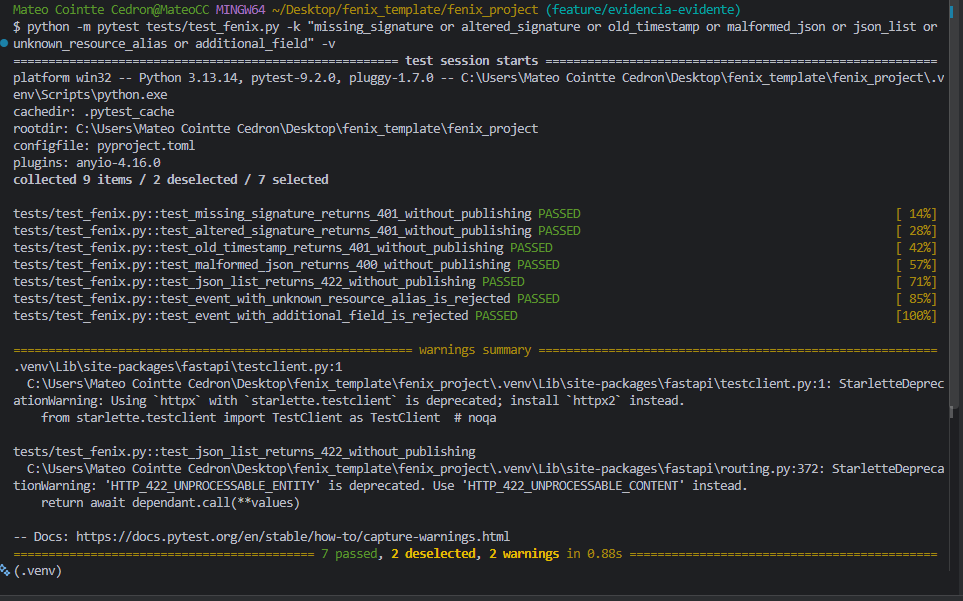
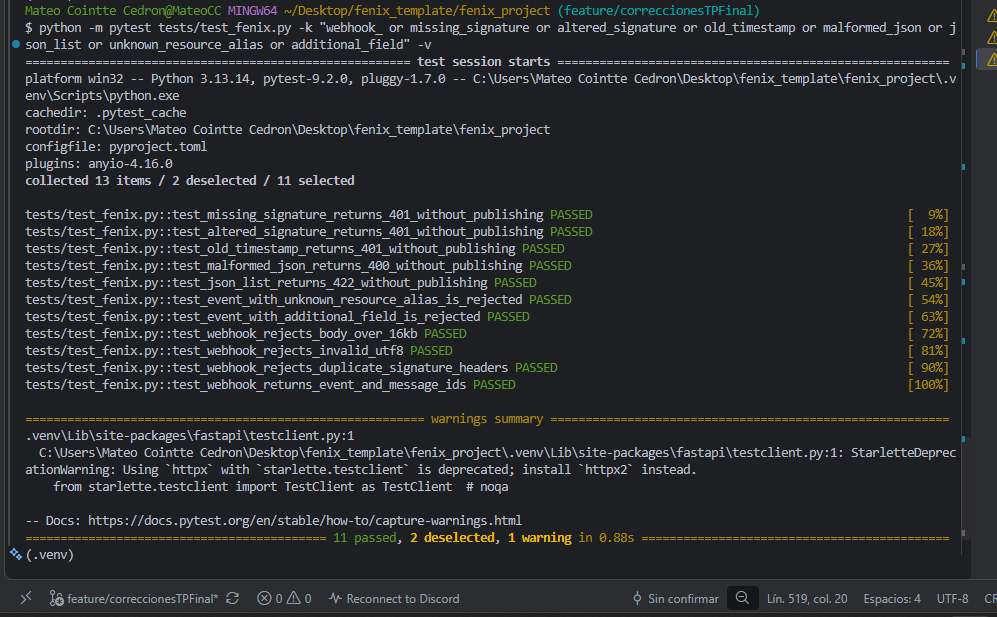
fix: complete I3 security and remediation corrections

Changed region(s): [[0.0, 0.0, 1.0, 0.9884], [0.6231, 0.9584, 1.0, 0.9884]]

diff --git a/src/fenix/services/receiver.py b/src/fenix/services/receiver.py
@@ -1,17 +1,19 @@
+
 import json
 import logging
 import os
+
+from typing import Dict
 from dotenv import load_dotenv
+from fastapi import FastAPI, HTTPException, Request, status
+from starlette.concurrency import run_in_threadpool
 
-from typing import Any, Dict
-from fastapi import FastAPI, Header, HTTPException, Request, status  # type: ignore[import-not-found]
 from fenix.utils.crypto import verify
-from fenix.services.sqs import publish
-from fenix.services.sqs import queue_url
+from fenix.services.sqs import publish, queue_url
+from fenix.services.events import validate
+from fenix.utils.errors import ValidationError
+from fenix.utils.state import load
 
-
-# Intentar importar el servicio de SQS (desarrollado por I2).
-# Si aún no está disponible, se define un stub para evitar fallos de ejecución.
 
 load_dotenv()
 
@@ -23,73 +25,67 @@ app = FastAPI(
     version="1.0.0",
 )
 
-# Carga de la clave secreta desde las variables de entorno del sistema
+# Cargar la clave secreta desde las variables de entorno.
 WEBHOOK_SECRET = os.getenv("WEBHOOK_SECRET", "")
 PREFIX = os.getenv("QUEUE_PREFIX", "")
 
+
 @app.post("/webhook", status_code=status.HTTP_202_ACCEPTED)
-
-
-async def receive_webhook(
-    request: Request,
-    # Se permite que la solicitud llegue al receptor sin esta cabecera
-    # para gestionar la ausencia de firma y responder con HTTP 401.
-    x_webhook_signature: str | None = Header(None, alias="X-Webhook-Signature"),
-) -> Dict[str, str]:
+async def receive_webhook(request: Request) -> Dict[str, str]:
     """
-    Recibe, autentica y procesa webhooks de alertas de infraestructura.
+    Recibe un webhook, verifica su firma HMAC y valida el evento
+    contra el inventario antes de publicarlo en SQS.
 
-    Flujo de ejecución:
-        1. Verifica que WEBHOOK_SECRET esté configurada.
-        2. Comprueba la cabecera X-Webhook-Signature.
-        3. Extrae el timestamp y la firma HMAC-SHA256.
-        4. Obtiene el cuerpo original en bytes y verifica la firma.
-        5. Decodifica el cuerpo y valida que sea un objeto JSON.
-        6. Publica el evento autenticado en Amazon SQS.
+    El proceso comprueba que la cabecera de firma sea única y válida,
+    que el cuerpo no supere los 16 KiB y que contenga JSON codificado
+    en UTF-8. La firma se verifica considerando la ventana temporal
+    de validez definida en crypto.verify().
 
-    Args:
-        request: Solicitud HTTP de FastAPI.
-        x_webhook_signature: Cabecera opcional con el formato
-            "t={timestamp},v1={digest}".
+    La validación del evento comprueba su estructura y que el recurso
+    esté autorizado en el inventario. Las operaciones de SQS se ejecutan
+    en un threadpool para no bloquear el endpoint asíncrono.
 
-    Returns:
-        Dict[str, str]: Confirmación de que el evento fue encolado.
+    Respuestas:
+        202: Evento autenticado, validado y publicado.
+        400: JSON inválido, UTF-8 incorrecto o Content-Length inválido.
+        401: Firma ausente, duplicada, inválida o vencida.
+        413: Cuerpo superior a 16 KiB.
+        422: Evento inválido o recurso no autorizado.
+        503: Clave secreta, inventario o servicio SQS no disponible.
 
-    Raises:
-        HTTPException:
-            400: El cuerpo no contiene JSON válido.
-            401: Falta la firma o no es válida.
-            422: El JSON recibido no es un objeto.
-            500: Error de configuración o procesamiento interno.
+    Retorna:
+        Identificadores del evento y del mensaje publicado en SQS.
     """
     if not WEBHOOK_SECRET:
-        logger.error("La variable de entorno WEBHOOK_SECRET no está configurada.")
+        logger.error("WEBHOOK_SECRET no está configurada.")
         raise HTTPException(
-            status_code=status.HTTP_500_INTERNAL_SERVER_ERROR,
-            detail="Error de configuración interna del servidor.",
+            status_code=status.HTTP_503_SERVICE_UNAVAILABLE,
+            detail="Servicio de autenticación no disponible.",
         )
 
-    # 1. Parsear la cabecera unificada X-Webhook-Signature (Formato: "t=1700000000,v1=abcdef...")
-    if not x_webhook_signature:
+    # Comprobar que exista una sola cabecera de firma.
+    headers = request.headers.getlist("x-webhook-signature")
+
+    if len(headers) != 1 or not headers[0].strip():
         raise HTTPException(
             status_code=status.HTTP_401_UNAUTHORIZED,
-            detail="Falta la firma de seguridad.",
+            detail="Firma ausente o duplicada.",
         )
+
+    # Parsear la cabecera y rechazar campos desconocidos o duplicados.
     try:
         header_parts = {}
 
-        for item in x_webhook_signature.split(","):
-            item = item.strip()
-
-            if not item or "=" not in item:
-                raise ValueError("Componente de cabecera inválido.")
+        for item in headers[0].split(","):
+            if "=" not in item:
+                raise ValueError("Cabecera inválida.")
 
             key, value = item.split("=", 1)
             key = key.strip()
             value = value.strip()
 
             if key not in ("t", "v1") or not value:
-                raise ValueError("Campo desconocido o vacío.")
+                raise ValueError("Campo inválido.")
 
             if key in header_parts:
                 raise ValueError("Campo duplicado.")
@@ -97,67 +93,99 @@ async def receive_webhook(
             header_parts[key] = value
 
         if set(header_parts) != {"t", "v1"}:
-            raise ValueError("Faltan campos obligatorios.")
-
-        x_timestamp = header_parts["t"]
-        x_signature = header_parts["v1"]
+            raise ValueError("Faltan campos.")
 
     except ValueError:
-        x_timestamp, x_signature = None, None
-
-    try:
-        # 2. Obtener el cuerpo de la petición en formato de bytes crudos
-        body_bytes = await request.body()
-
-        # 3. Validar la firma HMAC usando crypto.py
-        is_valid = verify(
-            secret=WEBHOOK_SECRET,
-            timestamp=x_timestamp,
-            body=body_bytes,
-            received_signature=x_signature,
+        raise HTTPException(
+            status_code=status.HTTP_401_UNAUTHORIZED,
+            detail="Cabecera de firma inválida.",
         )
 
-        if not is_valid:
-            logger.warning("Intento de webhook rechazado: Firma HMAC inválida o alterada.")
-            raise HTTPException(
-                status_code=status.HTTP_401_UNAUTHORIZED,
-                detail="Firma de seguridad inválida.",
-            )
+    # Comprobar el tamaño informado antes de leer el cuerpo.
+    content_length = request.headers.get("content-length")
 
-        # 4. Decodificar y validar que el cuerpo sea un JSON estructurado
+    if content_length is not None:
         try:
-            payload_data = json.loads(body_bytes.decode("utf-8"))
-
-            if not isinstance(payload_data, dict):
-                logger.warning("El payload JSON debe ser un objeto.")
+            if int(content_length) > 16 * 1024:
                 raise HTTPException(
-                    status_code=status.HTTP_422_UNPROCESSABLE_ENTITY,
-                    detail="El payload debe ser un objeto JSON.",
+                    status_code=status.HTTP_413_CONTENT_TOO_LARGE,
+                    detail="El cuerpo supera el límite de 16 KiB.",
                 )
-
-        except json.JSONDecodeError:
-            logger.error("El payload recibido no posee un formato JSON válido.")
+        except ValueError:
             raise HTTPException(
                 status_code=status.HTTP_400_BAD_REQUEST,
-                detail="El payload debe ser un objeto JSON válido.",
+                detail="Content-Length inválido.",
             )
 
-        logger.info(f"Webhook autenticado correctamente. Evento: {payload_data.get('event_type', 'desconocido')}")
+    # Obtener el cuerpo y comprobar su tamaño real.
+    body_bytes = await request.body()
 
-        # 5. Encolar el mensaje en SQS para su procesamiento asíncrono
-        publish(queue_url(PREFIX), payload_data)
-
-        return {
-            "status": "success",
-            "message": "Alerta autenticada y encolada exitosamente en SQS.",
-        }
-
-    except HTTPException:
-        # Re-lanzar excepciones HTTP previamente controladas
-        raise
-    except Exception as e:
-        logger.exception(f"Error inesperado al procesar el webhook: {e}")
+    if len(body_bytes) > 16 * 1024:
         raise HTTPException(
-            status_code=status.HTTP_500_INTERNAL_SERVER_ERROR,
-            detail="Error interno procesando la alerta.",
+            status_code=status.HTTP_413_CONTENT_TOO_LARGE,
+            detail="El cuerpo supera el límite de 16 KiB.",
         )
+
+    # Verificar la firma HMAC y su vigencia temporal.
+    if not verify(
+        secret=WEBHOOK_SECRET,
+        timestamp=header_parts["t"],
+        body=body_bytes,
+        received_signature=header_parts["v1"],
+    ):
+        logger.warning("Firma HMAC inválida o vencida.")
+        raise HTTPException(
+            status_code=status.HTTP_401_UNAUTHORIZED,
+            detail="Firma de seguridad inválida.",
+        )
+
+    # Decodificar el cuerpo y comprobar que contiene JSON válido.
+    try:
+        payload_data = json.loads(body_bytes.decode("utf-8"))
+    except (UnicodeDecodeError, json.JSONDecodeError):
+        raise HTTPException(
+            status_code=status.HTTP_400_BAD_REQUEST,
+            detail="El cuerpo debe contener JSON válido en UTF-8.",
+        )
+
+    if not isinstance(payload_data, dict):
+        raise HTTPException(
+            status_code=status.HTTP_422_UNPROCESSABLE_CONTENT,
+            detail="El payload debe ser un objeto JSON.",
+        )
+
+    # Validar la estructura del evento y la autorización del recurso.
+    try:
+        inventory = load("data/inventory.json")
+        payload_data = validate(payload_data, inventory)
+    except ValidationError:
+        raise HTTPException(
+            status_code=status.HTTP_422_UNPROCESSABLE_CONTENT,
+            detail="Evento o recurso inválido.",
+        )
+    except Exception:
+        logger.exception("No se pudo cargar el inventario.")
+        raise HTTPException(
+            status_code=status.HTTP_503_SERVICE_UNAVAILABLE,
+            detail="Inventario no disponible.",
+        )
+
+    # Publicar en SQS sin bloquear el endpoint asíncrono.
+    try:
+        url = await run_in_threadpool(queue_url, PREFIX)
+        message_id = await run_in_threadpool(publish, url, payload_data)
+    except Exception:
+        logger.exception("No se pudo publicar el evento en SQS.")
+        raise HTTPException(
+            status_code=status.HTTP_503_SERVICE_UNAVAILABLE,
+            detail="No se pudo publicar el evento.",
+        )
+
+    logger.info("Evento %s publicado correctamente.", payload_data["event_id"])
+
+    return {
+        "status": "success",
+        "message": "Alerta autenticada y encolada exitosamente en SQS.",
+        "event_id": payload_data["event_id"],
+        "message_id": message_id,
+    }

diff --git a/tests/test_fenix.py b/tests/test_fenix.py
@@ -446,3 +446,81 @@ def test_transient_failures_are_retried_before_repair(monkeypatch):
 
     assert ledger["evt-retry-001"]["attempts"] == 3
     assert calls == ["repair", "notify"]
+
+
+
+def test_webhook_rejects_body_over_16kb(monkeypatch):
+    body = b"a" * (16 * 1024 + 1)
+    timestamp = int(time.time())
+    digest = signature(secret, timestamp, body)
+
+    published = []
+    monkeypatch.setattr(receiver, "publish", lambda *args: published.append(args))
+
+    client = TestClient(receiver.app)
+    response = client.post(
+        "/webhook",
+        content=body,
+        headers={"X-Webhook-Signature": f"t={timestamp},v1={digest}"}
+    )
+
+    assert response.status_code == 413
+    assert published == []
+
+
+def test_webhook_rejects_invalid_utf8():
+    body = b'{"event_id":"\xff"}'
+    timestamp = int(time.time())
+    digest = signature(secret, timestamp, body)
+
+    client = TestClient(receiver.app)
+    response = client.post(
+        "/webhook",
+        content=body,
+        headers={"X-Webhook-Signature": f"t={timestamp},v1={digest}"}
+    )
+
+    assert response.status_code == 400
+
+
+def test_webhook_rejects_duplicate_signature_headers():
+    body = b'{"event_id":"evt-001"}'
+    timestamp = int(time.time())
+    digest = signature(secret, timestamp, body)
+
+    client = TestClient(receiver.app)
+    response = client.post(
+        "/webhook",
+        content=body,
+        headers=[
+            ("X-Webhook-Signature", f"t={timestamp},v1={digest}"),
+            ("X-Webhook-Signature", f"t={timestamp},v1={digest}")
+        ]
+    )
+
+    assert response.status_code == 401
+
+
+def test_webhook_returns_event_and_message_ids(monkeypatch):
+    body = b'{"schema_version":1,"event_id":"evt-001","event_type":"instance.stopped","resource_id":"node-01","occurred_at":"2026-11-18T12:00:00Z","simulate_failures":0}'
+    timestamp = int(time.time())
+    digest = signature(secret, timestamp, body)
+
+    inventory = {
+        "node-01": {"type": "ec2"}
+    }
+
+    monkeypatch.setattr(receiver, "load", lambda path: inventory)
+    monkeypatch.setattr(receiver, "queue_url", lambda prefix: "queue-test")
+    monkeypatch.setattr(receiver, "publish", lambda url, event: "msg-001")
+
+    client = TestClient(receiver.app)
+    response = client.post(
+        "/webhook",
+        content=body,
+        headers={"X-Webhook-Signature": f"t={timestamp},v1={digest}"}
+    )
+
+    assert response.status_code == 202
+    assert response.json()["event_id"] == "evt-001"
+    assert response.json()["message_id"] == "msg-001"

diff --git a/src/fenix/services/remediation.py b/src/fenix/services/remediation.py
@@ -136,10 +136,11 @@ def repair(
         bucket_name = resource_identifier
 
         # Obtener las etiquetas que deben existir según el inventario.
-        expected_tags = resource.get(
-            "expected_tags",
-            {"Environment": "production", "Project": "Fenix"}
-        )
+        expected_tags = resource.get("expected_tags")
+
+        if not isinstance(expected_tags, dict) or not expected_tags:
+            raise PermanentError("El recurso no contiene expected_tags válidos.")
+
         # Crear el cliente S3 para consultar y modificar el bucket.
         s3_client = client("s3")
 
